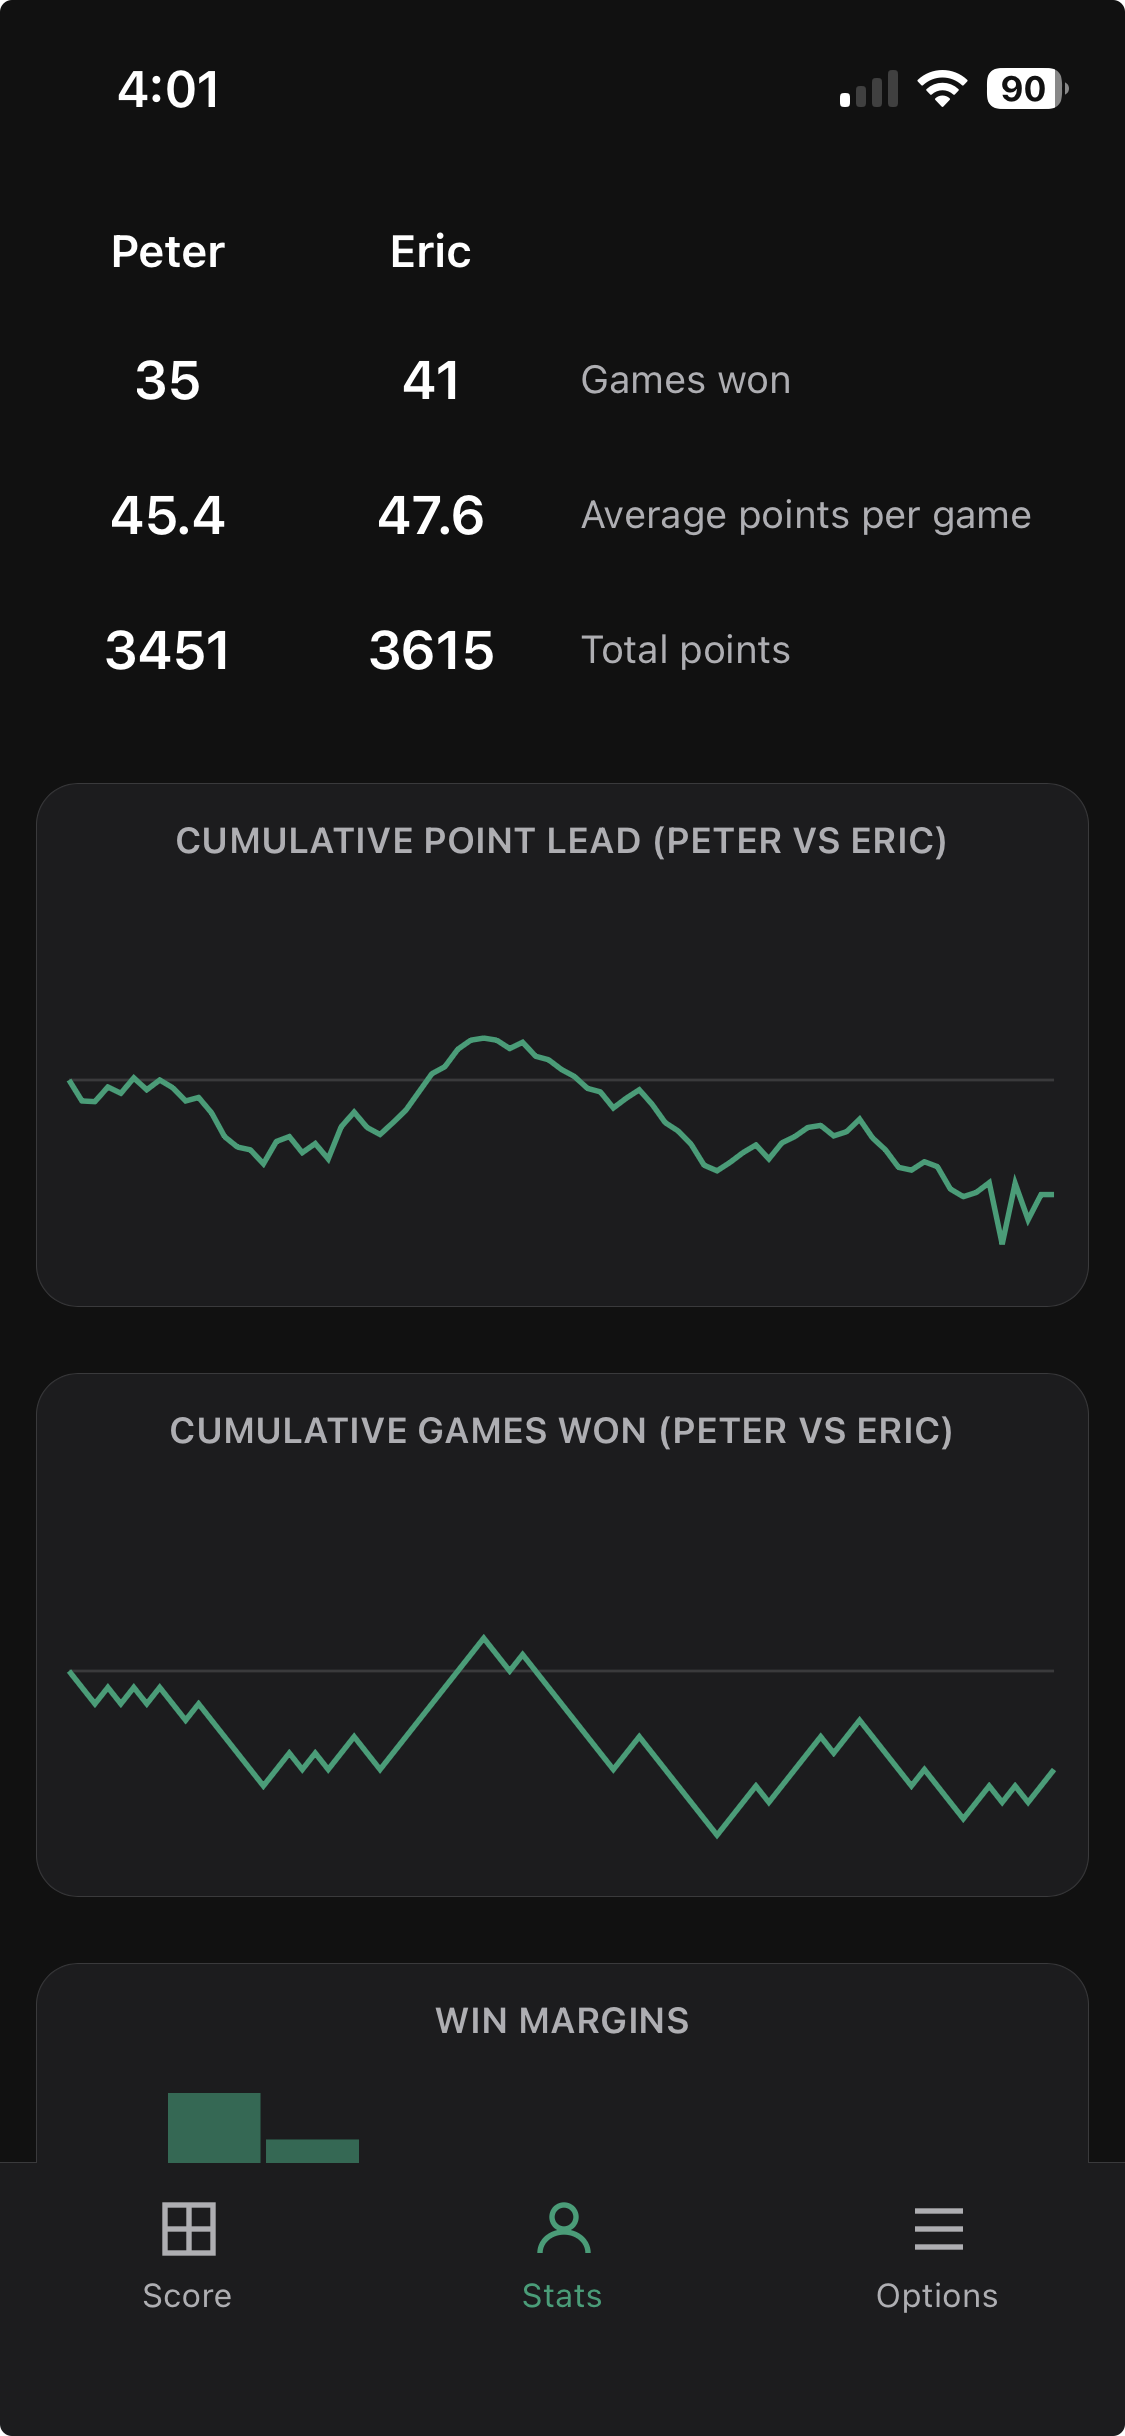
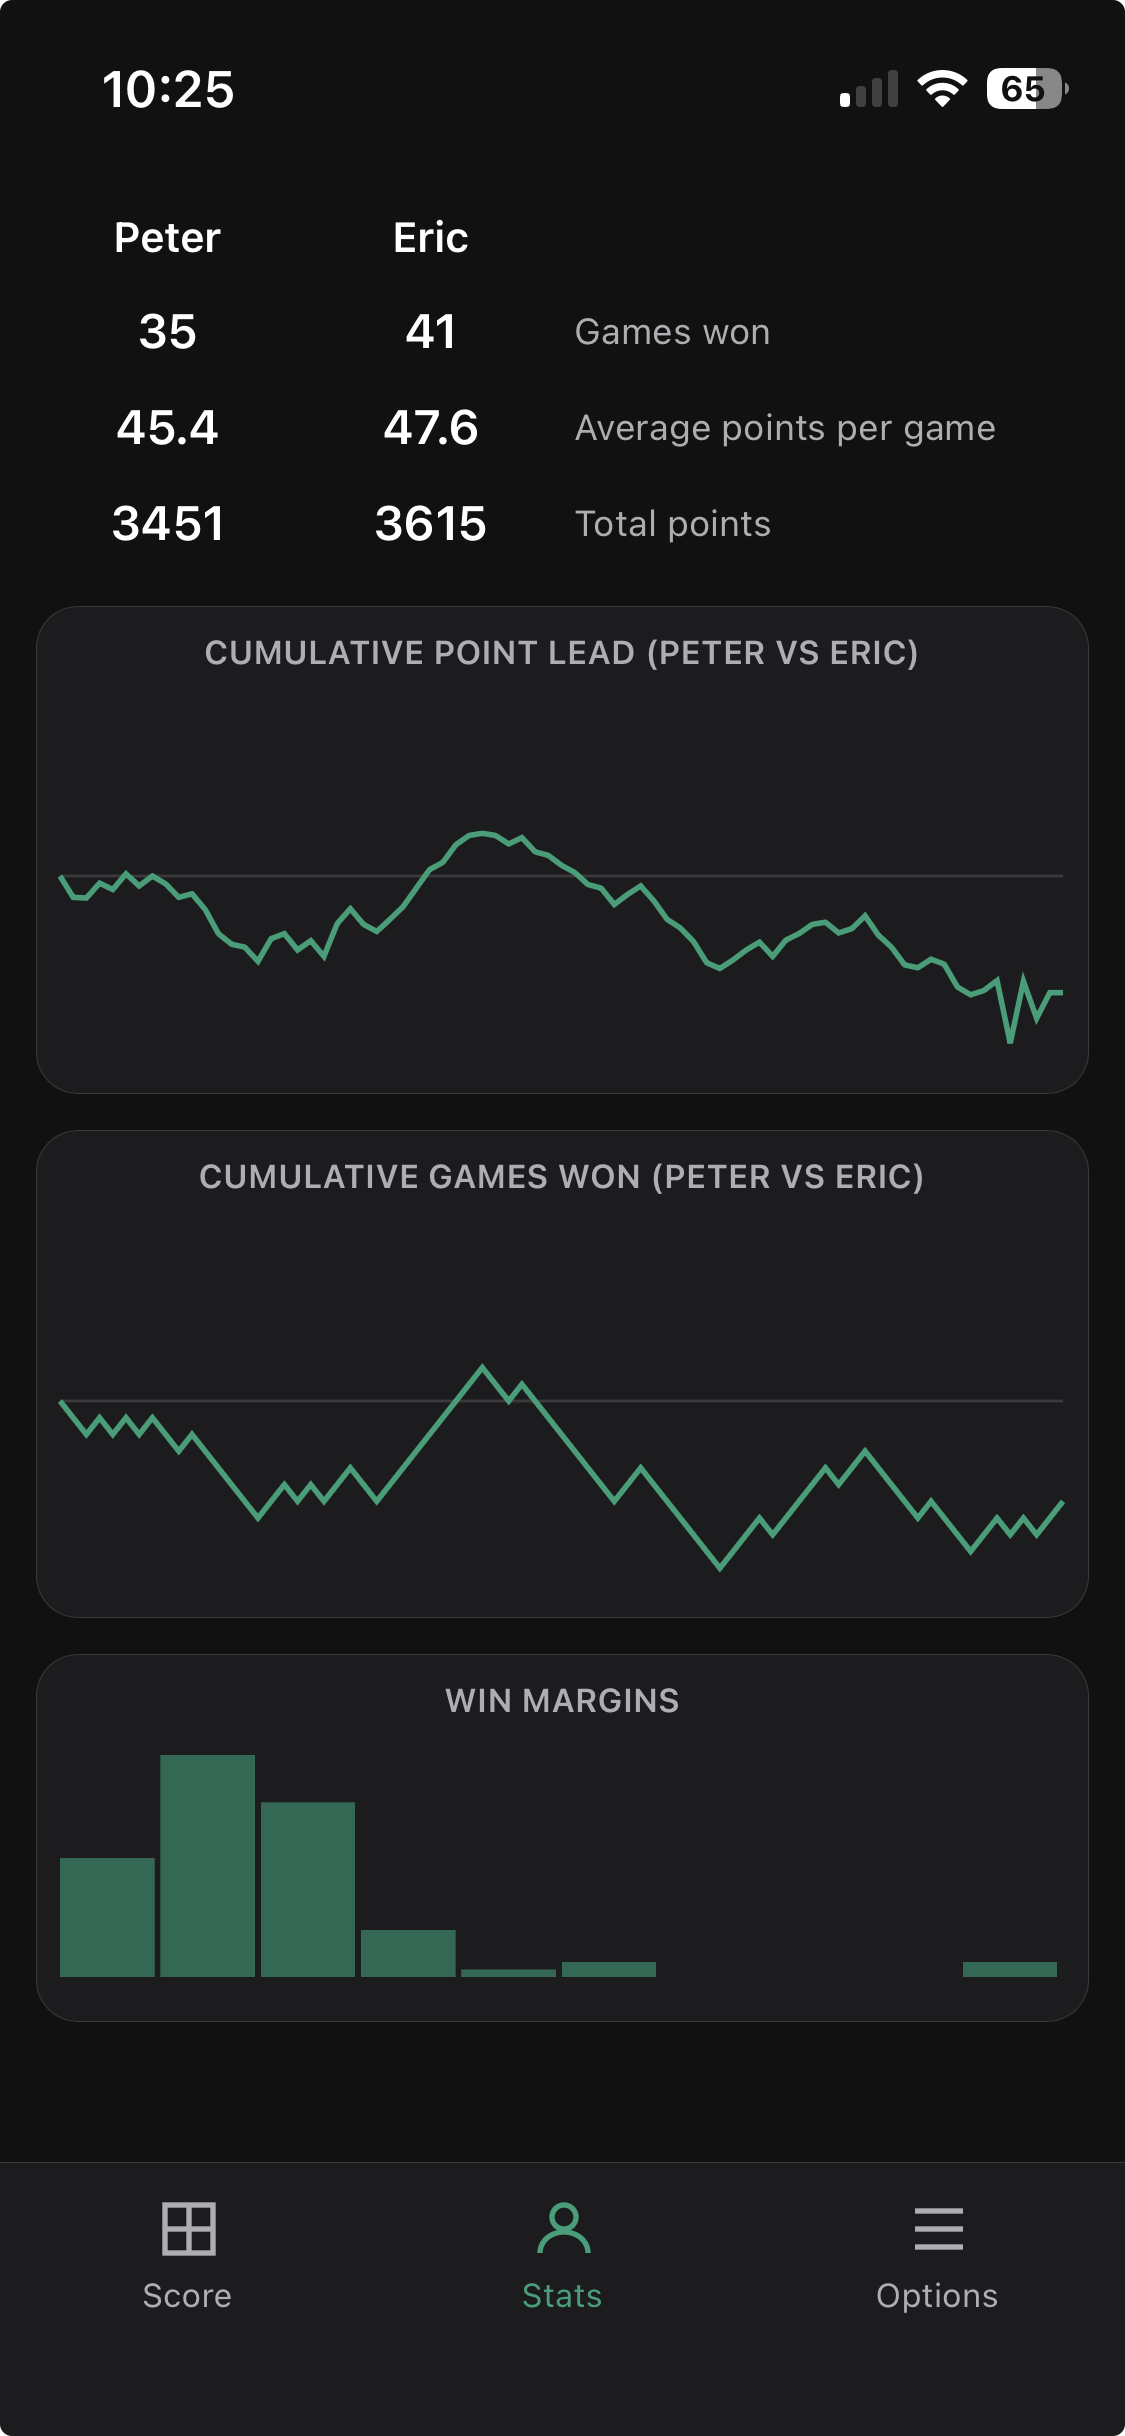
more tweaks to README

diff --git a/README.md b/README.md
@@ -60,7 +60,12 @@ The arrival of all these coding ai tools was too tempting, this is the result.
 
 ### Score Entry
 
-This is the "main" screen, where all the scoring takes place.
+This is the "main" screen, where all the scoring takes place. Enter a
+number of points and click on the player tile to credit those points
+to her. When a player "goes out" or "dominoes", click on the domino tile,
+below the 9, and the status area will report the totals for that hand and who plays next. A player wins by having the most points
+after a domino, and a total more than the top score set on the options tab, by default 50. The status bar will report the winner and wait for
+the domino tile to clicked again to start the next game. 
 
 <img src="screenshots/score.png" alt="Scores tab" width="300">
 
@@ -102,7 +107,14 @@ git clone https://github.com/evanvliet/dominoes.git
 cd dominoes
 ```
 
-Serve the files using any web server:
+THen just open the file, *e.g.*
+
+```text
+file:///Users/eric/dev/dominoes/index.html
+```
+in your browser.
+
+Or serve the files using any web server:
 
 ```bash
 python3 -m http.server 8000
@@ -113,6 +125,9 @@ Then open:
 ```text
 http://localhost:8000
 ```
+
+This is a web app, most browsers support installing it as an app, 
+which creates an icon and full screen display on your phone.
 
 ## Data Storage
 
